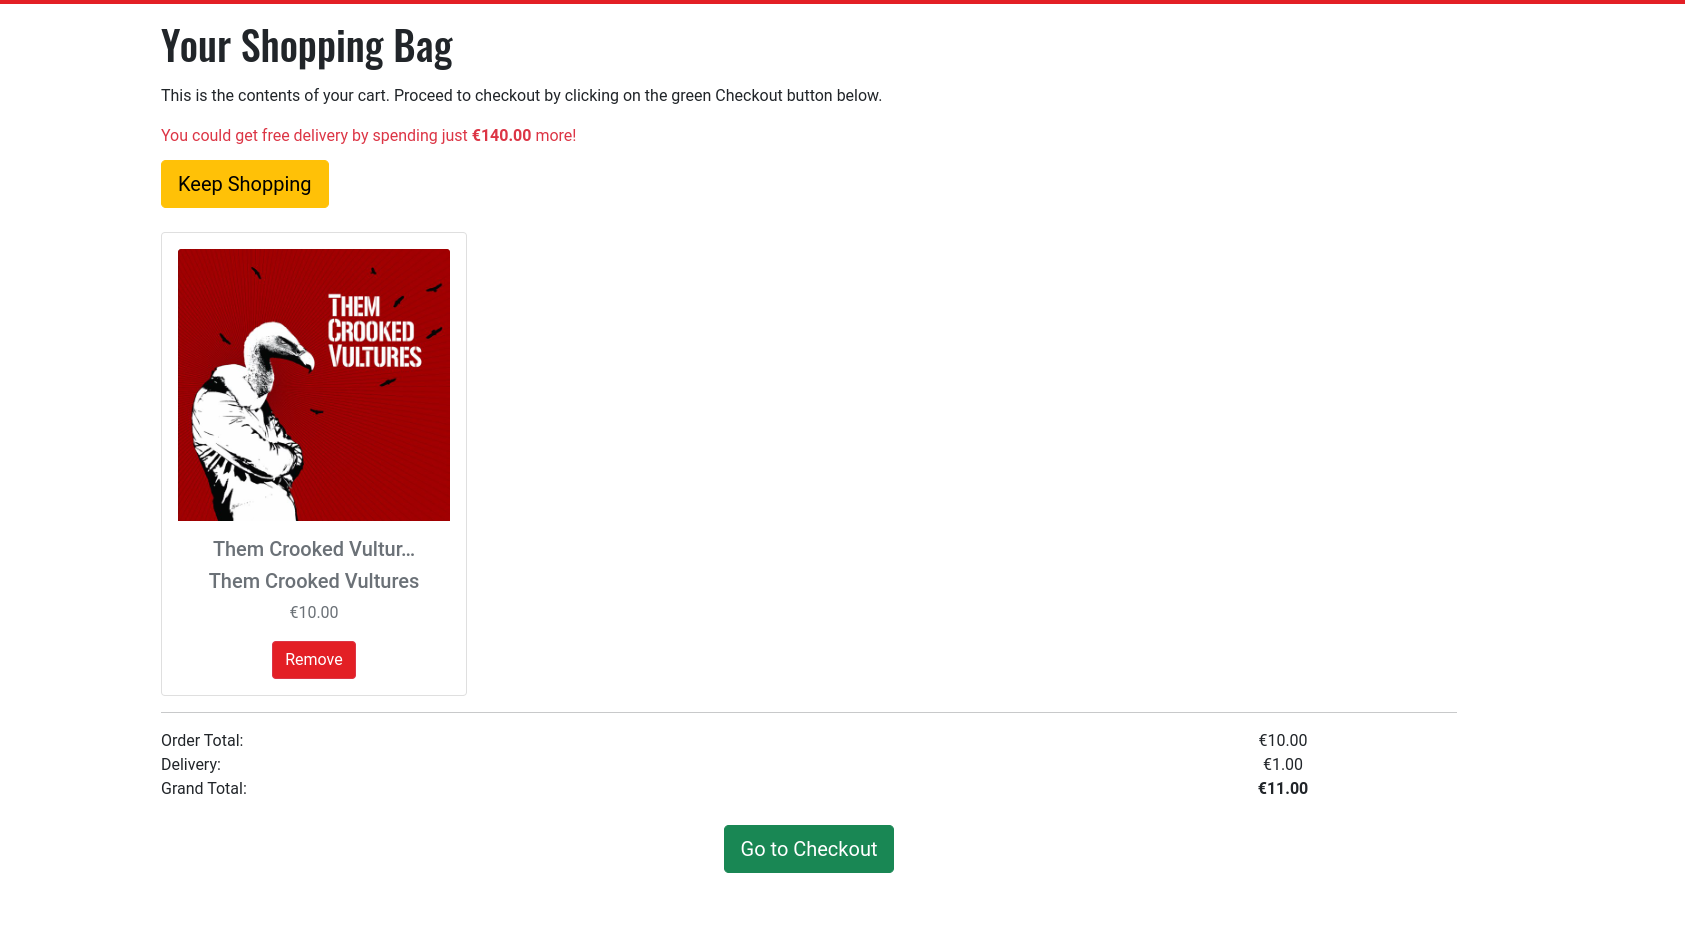
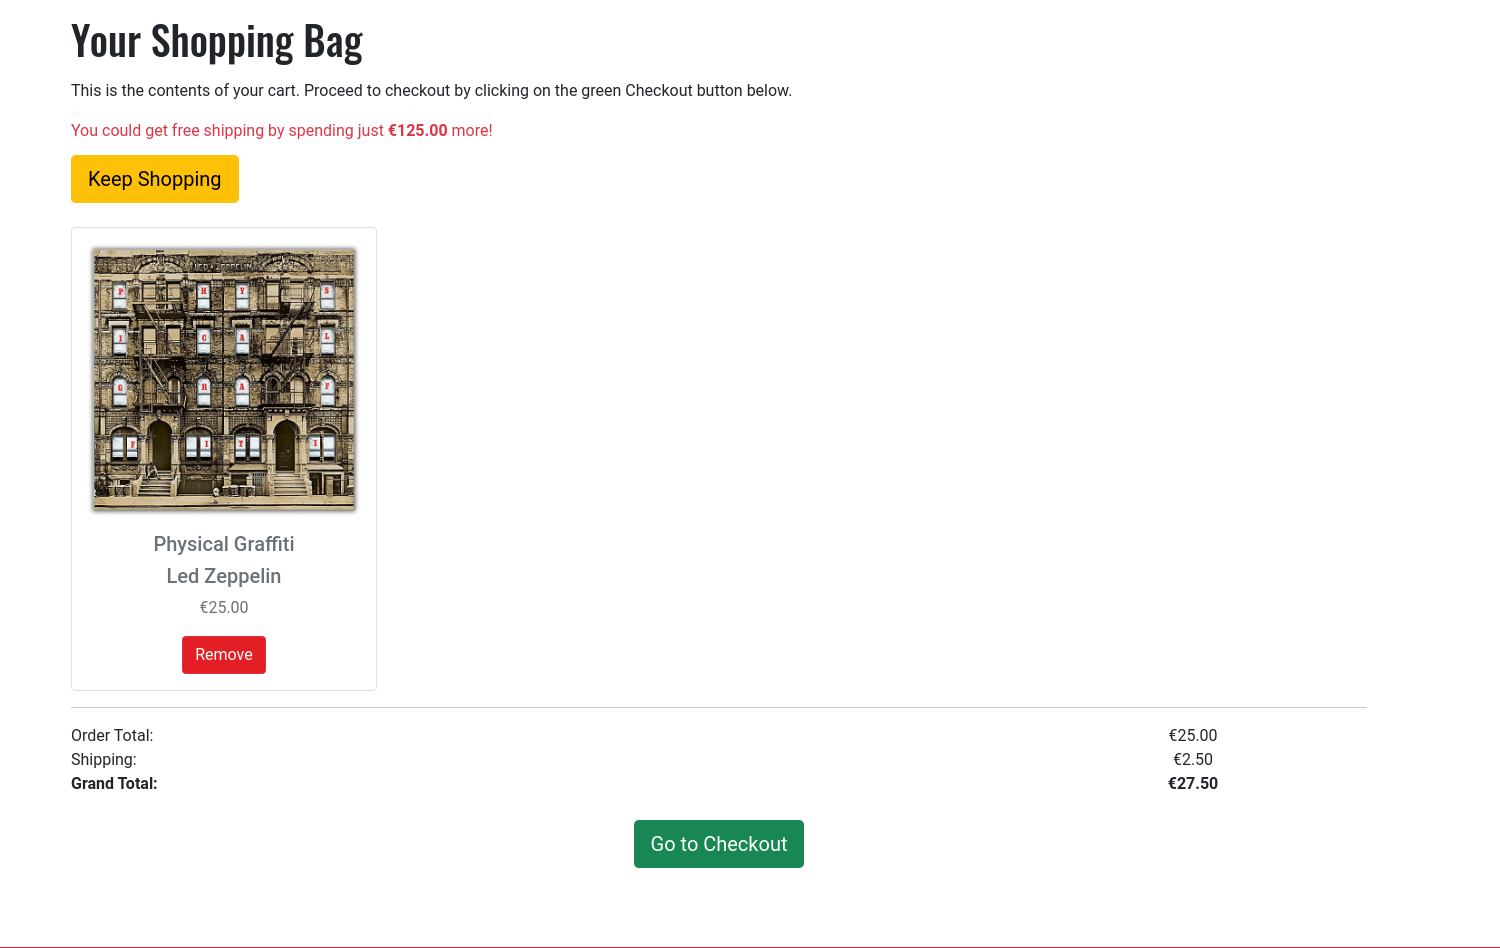
Adjustments to reviews pages, README additions

diff --git a/checkout/templates/checkout/checkout.html b/checkout/templates/checkout/checkout.html
@@ -51,8 +51,11 @@
             <div class="row text-black text-right order-totals">
                 <div class="col-7 offset-2">
                     <p class="my-0">Order Total:</p>
-                    <p class="my-0">Shipping:</p>
-                    <p class="my-0">Total to be charged:</p>
+                    <p class="my-0">Shipping Charges:</p>
+                    <strong>
+                        <p class="my-0">Total to be charged:</p>
+                    </strong>
+
                 </div>
                 <div class="col-3">
                     <p class="my-0">${{ total | floatformat:2 }}</p>
@@ -72,7 +75,7 @@
                     {{ order_form.phone_number | as_crispy_field }}
                 </fieldset>
                 <fieldset class="rounded px-3 mb-5">
-                    <legend class="fieldset-label small text-black px-2 w-auto">Delivery</legend>
+                    <legend class="fieldset-label small text-black px-2 w-auto">Shipping</legend>
                     {{ order_form.street_address1 | as_crispy_field }}
                     {{ order_form.street_address2 | as_crispy_field }}
                     {{ order_form.town_or_city | as_crispy_field }}

diff --git a/reviews/templates/reviews/reviews.html b/reviews/templates/reviews/reviews.html
@@ -58,9 +58,11 @@
                             <i class="fas fa-star"></i>
                             {% endif %}
                         </span></div>
-                    {% if user.is_authenticated and user.username == review.name or user.is_superuser %}
+                    {% if user.is_authenticated and user.username == review.name %}
                     <a class="btn btn-danger mb-3" href="update_review/{{review.id}}"
                         aria-label="Go to edit review {{review.id}} page">Edit</a>
+                    {% endif %}
+                    {% if user.is_authenticated and user.username == review.name or user.is_superuser %}
                     <button type="button" class="btn btn-danger mb-3" data-bs-toggle="modal"
                         data-bs-target="#delete-review-{{review.id}}" aria-label="Delete">Delete</button>
                     {% endif %}

diff --git a/bag/templates/bag/bag.html b/bag/templates/bag/bag.html
@@ -12,7 +12,7 @@
         button below.</p>
     {% if free_delivery_delta > 0 %}
     <p class="mb-1 text-danger">
-        You could get free delivery by spending just <strong>€{{ free_delivery_delta }}</strong> more!
+        You could get free shipping by spending just <strong>€{{ free_delivery_delta }}</strong> more!
     </p>
     {% endif %}
     <a href="{% url 'products' %}" class="btn btn-warning btn-lg mt-2 mb-4 mx-auto" role="button">Keep Shopping</a>
@@ -55,7 +55,7 @@
         <div class="row text-black text-right">
             <div class="col-9">
                 <p class="my-0">Order Total:</p>
-                <p class="my-0">Delivery:</p>
+                <p class="my-0">Shipping:</p>
                 <p class="my-0"> <strong>Grand Total:</strong></p>
             </div>
             <div class="col-3">

diff --git a/reviews/templates/reviews/update_review.html b/reviews/templates/reviews/update_review.html
@@ -6,8 +6,9 @@
         <div class="row p-3">
             <div class="col-12 text-center">
                 {% if reviews %}
-                <h1 class="sub-title mt-70">Edit Review As:</h1>
-                <p><i class="fas fa-user fa-lg interactive-color"></i> {{ user.username  | slice:":10" }}</p>
+                <h1 class="sub-title mt-70">Edit Review</h1>
+                <p><i class="fas fa-user fa-lg interactive-color"></i>Logged in as: {{ user.username }}
+                </p>
                 {% endif %}
             </div>
             <div class="col-lg-6 p-2">

diff --git a/reviews/templates/reviews/add_review.html b/reviews/templates/reviews/add_review.html
@@ -11,8 +11,8 @@
 <div class="container">
     <div class="row p-3">
         <div class="col-12 text-center">
-            <h1 class="sub-title mt-70">Add Review As:</h1>
-            <p><i class="fas fa-user fa-lg interactive-color"></i> {{ user.username  | slice:":10" }}</p>
+            <h1 class="sub-title mt-70">Add Review</h1>
+            <p><i class="fas fa-user fa-lg interactive-color"></i>Logged in as: {{ user.username }}</p>
         </div>
     </div>
 </div>

diff --git a/README.md b/README.md
@@ -193,11 +193,11 @@ During development, SQLite was used for the site database and for production, El
 
 ### User Profile
 
-**Delivery information**
+**Shipping information**
 
 ![profile](docs/readme_images/shipping-info.png)
 
-- The delivery address section stores the user's delivery address and phone number.
+- The shipping address section stores the user's shipping address and phone number.
 - The information provided here can be used to autofill the address fields at checkout, to save the customer time.
 - There's also an option here for the customer to change their login password, if they wish to.
 
@@ -227,7 +227,7 @@ During development, SQLite was used for the site database and for production, El
 
 - After clicking on an individual product on the Products page, the user will be taken to the full product details. 
 - The product details page displays the product image, artist, format, genre, item condition, Discogs album rating and price, as well as an Add to Cart button. Under everything, the user will see a detailed product description.
-- If the user is logged in as a store administrator, they'll also see buttons for Editing and Deleting products under the Add to Cart button.
+- If the user is logged in as a store administrator, they'll also see buttons for Editing and Deleting products above the Add to Cart button.
 
 ### Store Management
 
@@ -269,13 +269,78 @@ During development, SQLite was used for the site database and for production, El
 
 ![shopping-bag](docs/readme_images/shopping-cart.png)
 
-- When the user clicks on the shopping bag icon in the nav bar they are taken to the Shopping Bag page, which shows the products added to the cart, order total, applicable charge for delivery and overall total to be charged.
+- When the user clicks on the shopping bag icon in the nav bar they are taken to the Shopping Bag page, which shows the products added to the cart, order total, applicable charge for shipping and overall total to be charged.
 - The user also sees a notification about how much extra they need to spend to get free shipping, if they are below the free shipping threshold. If they are above that threshold, this message does not appear.
 - The user has an option to return to the Store page by clicking on the "Keep Shopping" button.
 - The user can remove items from their shopping bag by clicking on the "Remove" button under the product thumbnail. Upon clicking on this, the shopping bag is updated, as are the order totals.
 - If the user removes everything from their shopping bag, they receive a message stating that their shopping bag is empty. The order total fields and the "Go To Checkout" button disappear if this takes place.
 - Once ready, the user can then proceed to the checkout page by clicking on the "Go To Checkout" button, as long as there is items in their shopping bag at this stage.
 
+### Checkout area
+
+![checkout](docs/readme_images/checkout-page.png)
+
+**Personal Details**
+
+- Within the details section the user can fill out their personal details, shipping address and payment information.
+- If the user is a guest, an option to either create a new account or log into an existing account is visible.
+- If the user is logged in, a checkbox to save the shipping information to their profile can be selected.
+- If the user is signed in and has shipping information saved, the shipping details and email address will auto-populate from the already-saved user profile.
+- If a user leaves a required field empty or inputs invalid or empty data, an error will appear to prompt the user to check their inputs.
+
+**Order Summary**
+
+- The Order Summary section lists the items about to be purchased, along with the item subtotal and an order total.
+- The order totals give a breakdown of the order total, the cost of shipping and also the grand total to be charged from the customer card.
+- The image thumbnail links back to that product's detail page.
+
+**Payment**
+
+- The site payments are handled by the Stripe payment processor. This is a secure payment platform, documentation for it can be found here: https://stripe.com/docs/ .
+- Invalid card details will trigger a red warning message stating that the card details entered are invalid.
+- After the user clicks to complete payment, a loading screen will be triggered, to let the user know that their transaction is being processed and to discourage them from navigating away before this takes place.
+- If the payment form fails or the user closes the browser window before the loading screen disappears, the transaction should still succeed through the inbuilt webhook.
+- The payment webhook is designed to search through the database to see if the customer's order exists. If it does not, the webhook will create the order using the customer's details and payment information.
+
+**Order Confirmation**
+
+![checkout](docs/readme_images/checkout-success.png)
+
+- Completing the order takes the user to the checkout success page. Here, the user will see a summary of their completed order, including the shipping address, items purchased and order total. The order also receives a randomly-generated order number. This information will also be visible to a registered user under their "Profile" section described earlier.
+- The customer will also receive an email to confirm their order.
+
+### Customer Reviews section
+
+![reviews](docs/readme_images/reviews-page.png)
+
+- The Customer Reviews page can be reached by clicking on the link to the page in the footer of the site.
+- When a user navigates to this page, they can see reviews left by previous users. Each review includes the review itself, the username of the reviewer, the rating given by the user, the date the review was left and an image optionally uploaded by the reviewer. If the user chooses not to upload an image, a placeholder image is used instead. 
+- The user must be logged in to be able to leave a review. If the person is logged out, a message will appear to let them know they must be logged in to be able to leave a review.
+- Once the review is submitted, it must be approved by the site administrator before it can be viewed on the site.
+- After the review is approved and is appearing on the site, a logged-in user will have the option to either edit or delete any reviews left by themselves, through buttons that appear under the "Rating" section.
+ 
+**Add Review page**
+
+![reviews](docs/readme_images/add-review.png)
+
+- The user can give their review a title, give it a rating and write a paragraph to describe their experience. They can also optionally upload an image to go alongside their review, once it's been approved by the site administrator.
+- Once the review is submitted, the customer receives a message to confirm that the review has been received, and is awaiting approval.
+
+**Edit Review page**
+
+![reviews](docs/readme_images/edit-review.png)
+
+- The user can edit reviews left by themselves only. On the main Reviews page, an option to Edit the existing review will appear under the Rating.
+- If someone attempts to edit a review attributed to another user through the direct URL to the editing page, they're redirected to the login screen.
+- If they log into an account that did not leave the review they're attempting to edit, they see a custom 403 "forbidden" page, with a link back to the site homepage.
+
+**Delete Review**
+
+![reviews](docs/readme_images/delete-review.png)
+
+- A logged-in user will have access to a Delete button on reviews that they've previously left. This button appears under the "Rating" field on the main reviews page.
+- Clicking on the "Delete" button triggers a Bootstrap modal, asking the user to provide confirmation for the deletion of the review.
+- Clicking "Delete" returns a "Review Deleted" message and the review is permanently removed from the database.
 
 
 
